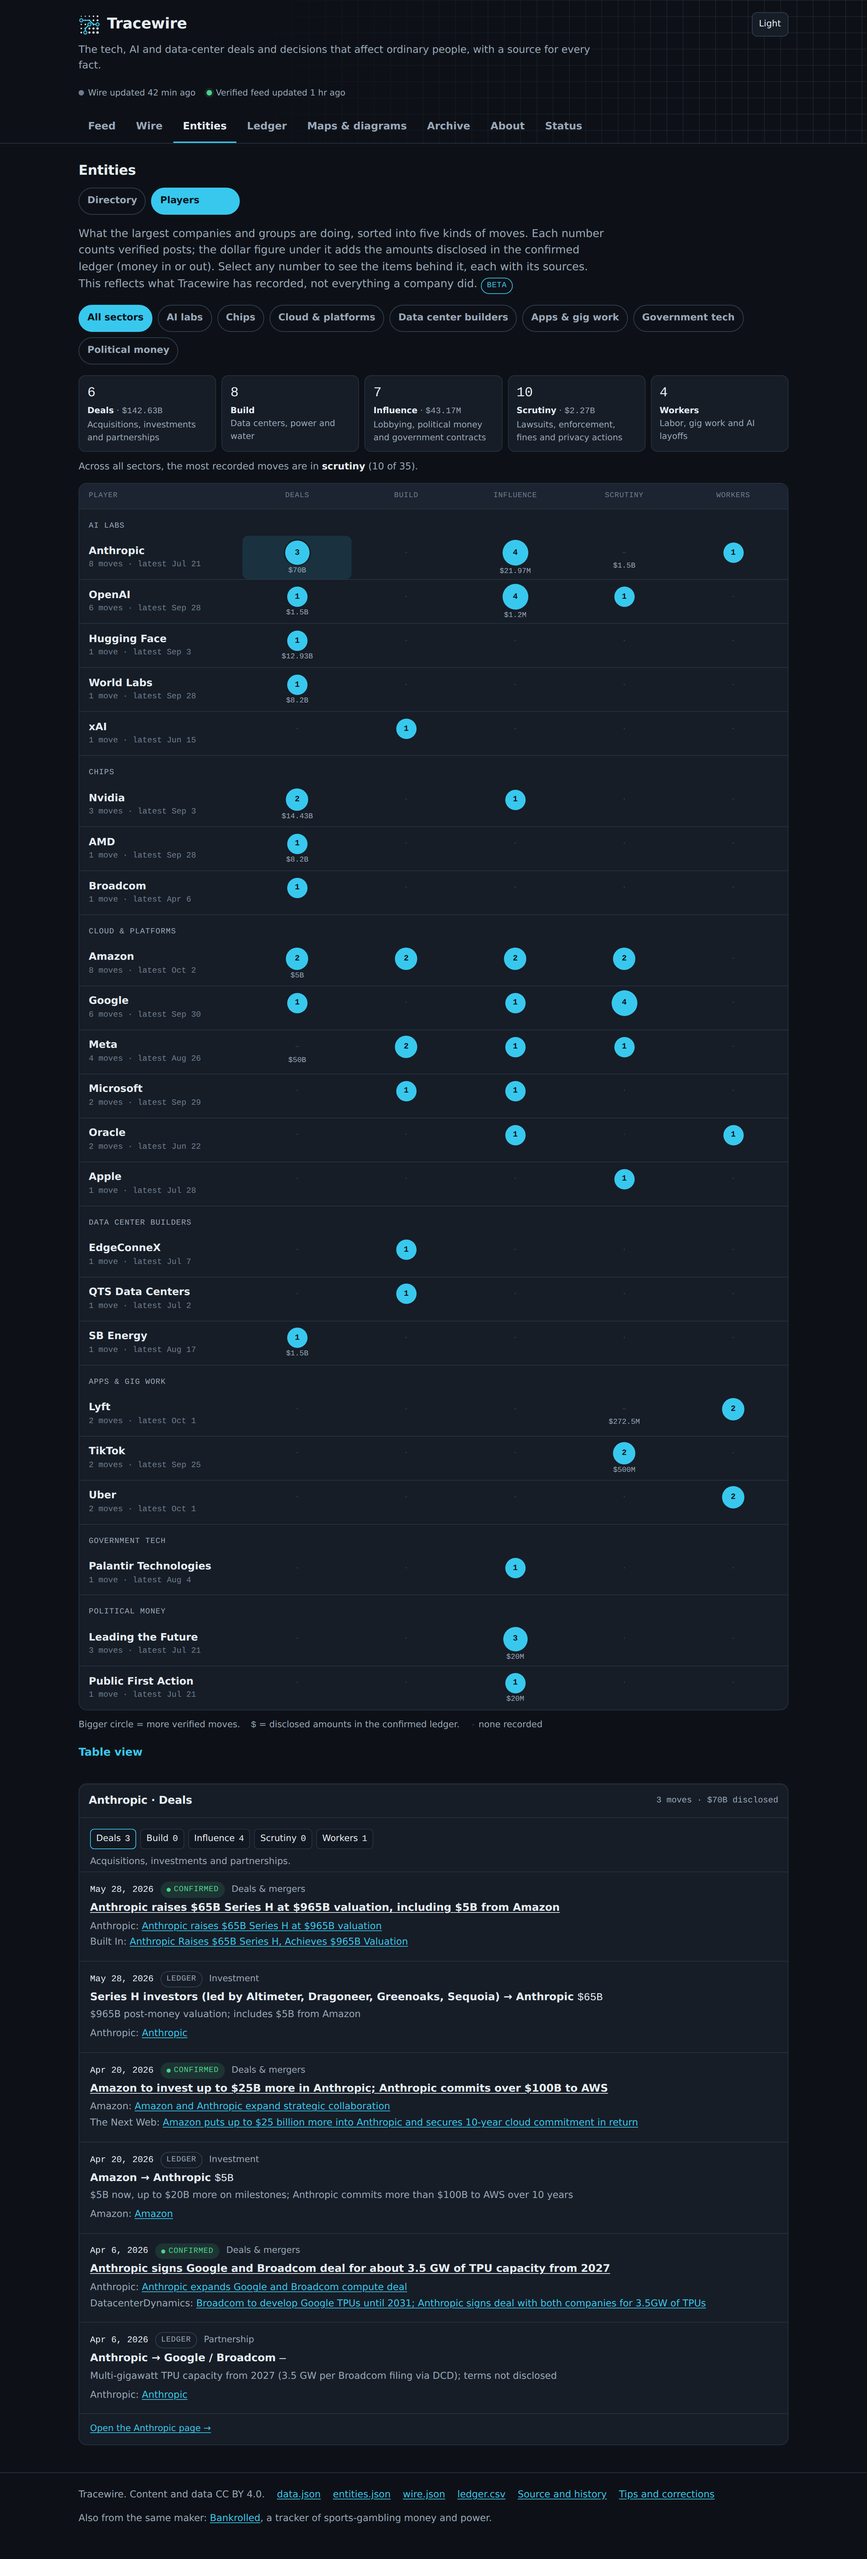
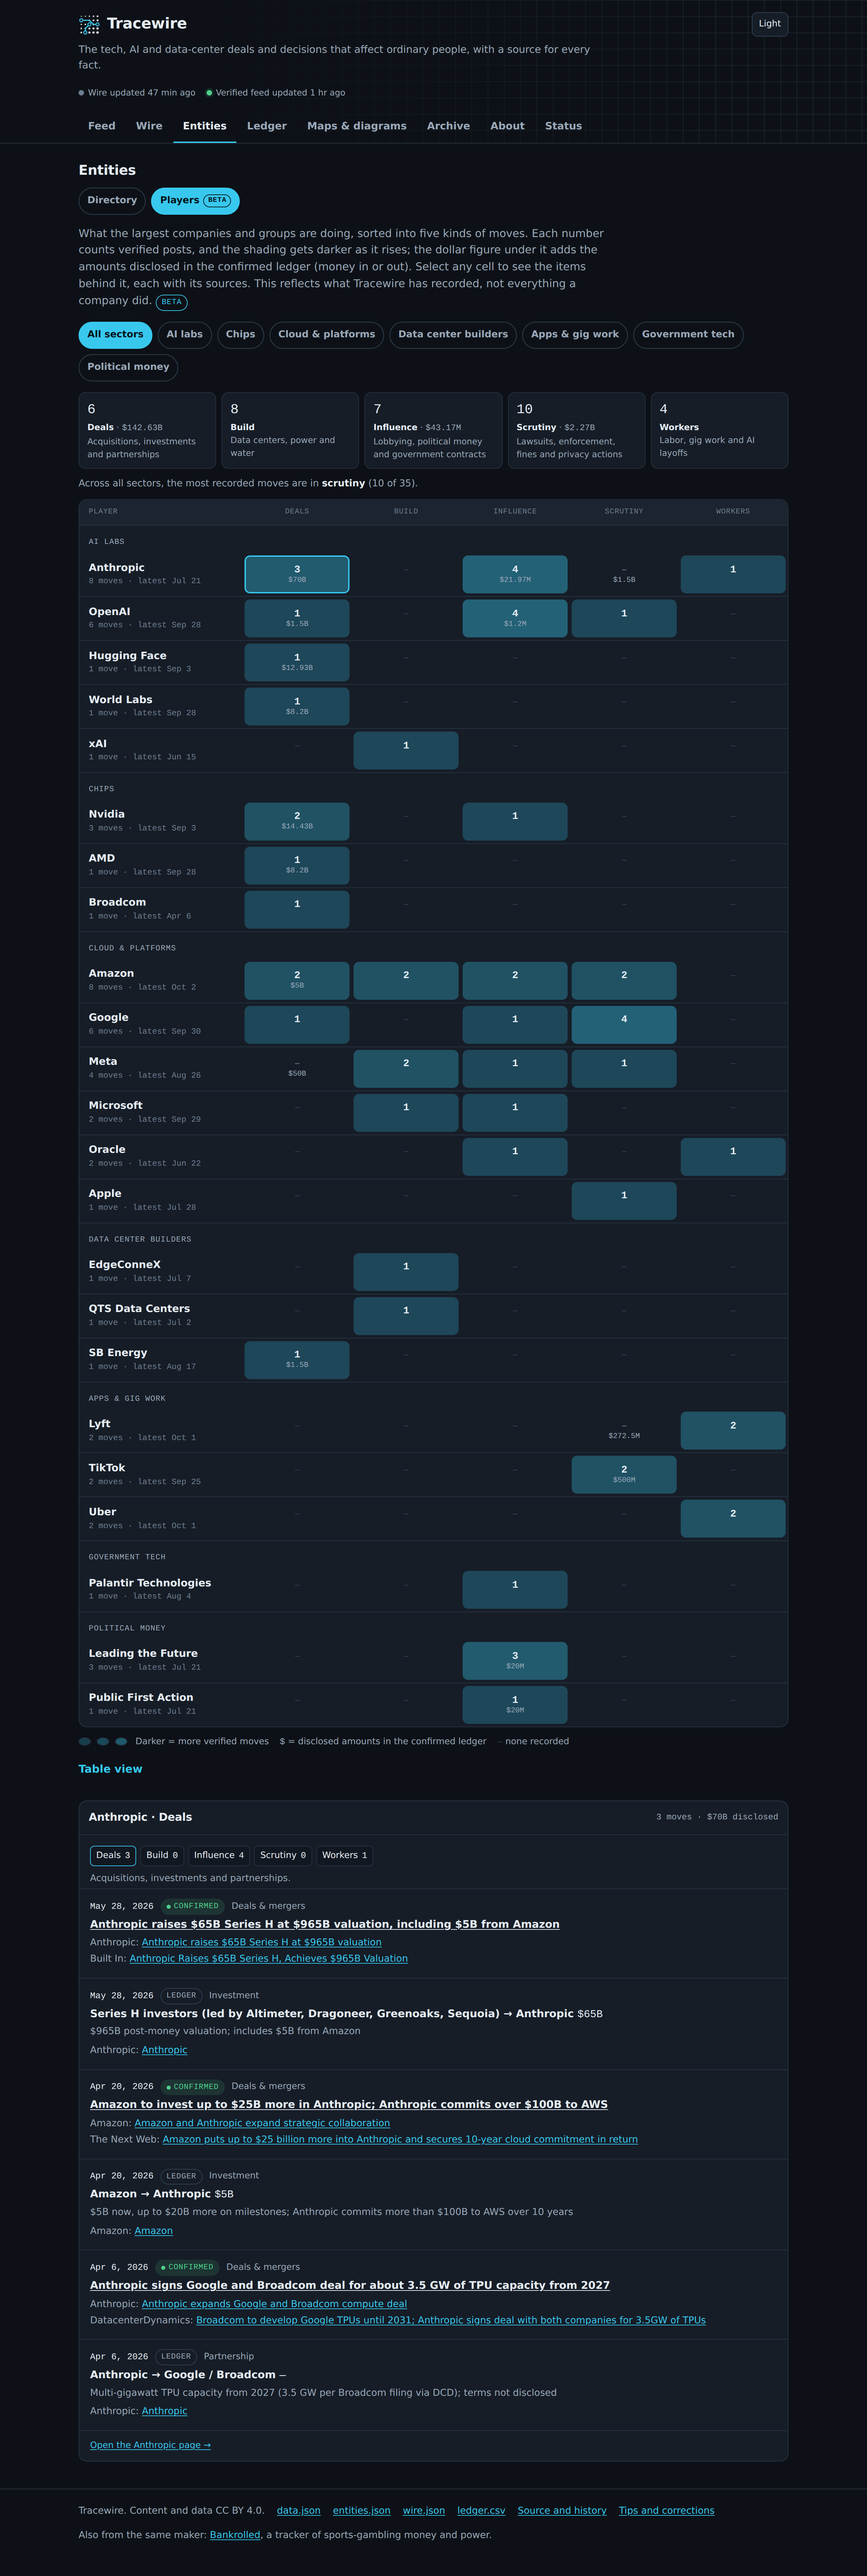
Players (beta): even tile grid; beta label visible on selected tab (#7)
Claude-Session: https://claude.ai/code/session_01Gvus3rGbYfJZZkf6H1iRhh

diff --git a/docs/index.html b/docs/index.html
@@ -165,6 +165,7 @@ figcaption{font-size:12.5px;color:var(--muted)}
 .sec{margin-top:32px}
 .sec>h2{font-size:17px;margin:0 0 12px}
 .chip.beta{color:var(--accent);border-color:var(--accent)}
+.subtabs a[aria-current="true"] .chip.beta{color:currentColor;border-color:currentColor}
 .pl-sum{display:grid;grid-template-columns:repeat(5,minmax(0,1fr));gap:8px;margin:0 0 16px}
 @media(max-width:700px){.pl-sum{grid-template-columns:repeat(2,minmax(0,1fr))}.pl-sum>.stat:last-child{grid-column:1/-1}}
 .pl-sum .k b{color:var(--text);font-weight:600}
@@ -178,13 +179,16 @@ figcaption{font-size:12.5px;color:var(--muted)}
 .pl-nm{padding:8px 14px;min-height:64px;display:flex;flex-direction:column;justify-content:center;gap:2px;min-width:0}
 .pl-nm a{color:var(--text);text-decoration:none;font-weight:600;font-size:15px;line-height:1.25}.pl-nm a:hover{color:var(--accent);text-decoration:underline}
 .pl-nm small{font-size:12px;color:var(--faint);font-family:"JetBrains Mono",monospace}
-.pl-c{appearance:none;border:0;background:none;min-height:64px;width:100%;display:flex;flex-direction:column;align-items:center;justify-content:center;gap:4px;cursor:pointer;border-radius:8px;padding:4px 0;color:inherit;font:inherit}
-.pl-c:hover,.pl-c[aria-pressed="true"]{background:var(--accent-soft)}
-.pl-c[disabled]{cursor:default;background:none}
-.pl-n{display:flex;align-items:center;justify-content:center;border-radius:50%;background:var(--accent);color:var(--accent-ink);font-family:"JetBrains Mono",monospace;font-size:12px;font-weight:600;box-shadow:0 0 0 2px var(--panel)}
-.pl-n.z{background:none;color:var(--line2);box-shadow:none;font-weight:400}
+.pl-c{appearance:none;border:1px solid transparent;margin:4px 3px;min-height:56px;display:flex;flex-direction:column;align-items:center;justify-content:center;gap:3px;cursor:pointer;border-radius:8px;padding:6px 2px;color:var(--text);font:inherit;background:color-mix(in srgb,var(--accent) var(--t,0%),transparent)}
+.pl-c:hover{border-color:var(--accent)}
+.pl-c[aria-pressed="true"]{border-color:var(--accent);box-shadow:0 0 0 1px var(--accent) inset}
+.pl-c[disabled]{cursor:default;background:none;border-color:transparent}
+.pl-n{font-family:"JetBrains Mono",monospace;font-size:15px;font-weight:600;line-height:1}
+.pl-c[disabled] .pl-n{color:var(--line2);font-weight:400}
 .pl-m{font-family:"JetBrains Mono",monospace;font-size:11px;color:var(--muted);line-height:1;min-height:11px}
-@media(max-width:700px){.pl-row{grid-template-columns:86px repeat(5,minmax(0,1fr))}.pl-hd{font-size:9.5px;letter-spacing:0}.pl-nm{padding:8px 8px 8px 10px}.pl-nm a{font-size:13px}.pl-nm small{display:none}.pl-m{font-size:10px}}
+.pl-scale{display:inline-flex;gap:3px;vertical-align:middle;margin-right:6px}
+.pl-scale i{display:inline-block;width:18px;height:12px;border-radius:3px;border:1px solid var(--line)}
+@media(max-width:700px){.pl-c{margin:3px 2px;min-height:50px}.pl-n{font-size:14px}.pl-row{grid-template-columns:86px repeat(5,minmax(0,1fr))}.pl-hd{font-size:9.5px;letter-spacing:0}.pl-nm{padding:8px 8px 8px 10px}.pl-nm a{font-size:13px}.pl-nm small{display:none}.pl-m{font-size:10px}}
 .pl-tip{position:absolute;pointer-events:none;background:var(--text);color:var(--bg);font-size:12.5px;line-height:1.35;padding:6px 9px;border-radius:6px;white-space:nowrap;z-index:5;transform:translate(-50%,calc(-100% - 6px))}
 .pl-key{display:flex;flex-wrap:wrap;align-items:center;gap:6px 16px;font-size:13px;color:var(--muted);margin:12px 0 0}
 .pl-key i{display:inline-block;border-radius:50%;background:var(--accent);vertical-align:middle;margin-right:6px}
@@ -543,22 +547,22 @@ async function vPlayers(r){
  const sum={};LANES.forEach(([k])=>{const ps=new Set(),ls=new Map();shown.forEach(x=>x.L[k].items.forEach(i=>i.kind==="post"?ps.add(i.p.id):ls.set(i.x.id,i.x)));sum[k]={n:ps.size,amt:[...ls.values()].filter(x=>x.amt!=null).reduce((a,x)=>a+ +x.amt,0)}});
  const top=LANES.slice().sort((a,b)=>sum[b[0]].n-sum[a[0]].n)[0];
  const max=Math.max(1,...shown.flatMap(x=>LANES.map(([k])=>x.L[k].n)));
- const size=n=>Math.round(22+16*Math.sqrt(n/max));
+ const tint=n=>n?Math.round(10+30*Math.sqrt(n/max)):0;
  const fmtLast=d=>d?`${MON[+d.slice(5,7)-1]} ${+d.slice(8,10)}`:"";
- const cell=(x,k,lab)=>{const L=x.L[k];if(!L.items.length)return`<button class="pl-c" type="button" disabled aria-label="${esc(x.e.n)}, ${lab}: none recorded"><span class="pl-n z" style="width:22px;height:22px">·</span><span class="pl-m"></span></button>`;
-  const z=size(L.n),tip=`${x.e.n} · ${lab}: ${L.n} move${L.n===1?"":"s"}${L.amt?`, ${money(L.amt)} disclosed`:""}`;
-  return`<button class="pl-c" type="button" data-pl="${esc(x.e.id)}" data-lane="${k}" aria-pressed="false" aria-label="${esc(tip)}. Show them." data-tip="${esc(tip)}"><span class="pl-n${L.n?"":" z"}" style="width:${L.n?z:22}px;height:${L.n?z:22}px">${L.n||"–"}</span><span class="pl-m">${L.amt?money(L.amt):""}</span></button>`};
+ const cell=(x,k,lab)=>{const L=x.L[k];if(!L.items.length)return`<button class="pl-c" type="button" disabled aria-label="${esc(x.e.n)}, ${lab}: none recorded"><span class="pl-n">–</span><span class="pl-m"></span></button>`;
+  const tip=`${x.e.n} · ${lab}: ${L.n} move${L.n===1?"":"s"}${L.amt?`, ${money(L.amt)} disclosed`:""}`;
+  return`<button class="pl-c" type="button" data-pl="${esc(x.e.id)}" data-lane="${k}" aria-pressed="false" aria-label="${esc(tip)}. Show them." data-tip="${esc(tip)}" style="--t:${tint(L.n)}%"><span class="pl-n"${L.n?"":' style="color:var(--faint);font-weight:400"'}>${L.n||"–"}</span><span class="pl-m">${L.amt?money(L.amt):""}</span></button>`};
  const row=x=>`<div class="pl-row"><div class="pl-nm"><a href="#/entity/${encodeURIComponent(x.e.id)}">${esc(x.e.n)}</a><small>${x.moves} move${x.moves===1?"":"s"} · latest ${esc(fmtLast(x.last))}</small></div>${LANES.map(([k,lab])=>cell(x,k,lab)).join("")}</div>`;
  const groups=(sec?[sec]:secs).map(g=>`<div class="pl-sec">${esc(g)}</div>`+shown.filter(x=>x.e.sec===g).sort((a,b)=>b.moves-a.moves||a.e.n.localeCompare(b.e.n)).map(row).join("")).join("");
  $("#main").innerHTML=`<h2>Entities</h2>${entTabs("pl")}
- <p class="muted" style="max-width:780px">What the largest companies and groups are doing, sorted into five kinds of moves. Each number counts verified posts; the dollar figure under it adds the amounts disclosed in the confirmed ledger (money in or out). Select any number to see the items behind it, each with its sources. This reflects what Tracewire has recorded, not everything a company did. <span class="chip beta plain">Beta</span></p>
+ <p class="muted" style="max-width:780px">What the largest companies and groups are doing, sorted into five kinds of moves. Each number counts verified posts, and the shading gets darker as it rises; the dollar figure under it adds the amounts disclosed in the confirmed ledger (money in or out). Select any cell to see the items behind it, each with its sources. This reflects what Tracewire has recorded, not everything a company did. <span class="chip beta plain">Beta</span></p>
  <div class="subtabs" style="margin-top:16px"><a href="#/entities/players" aria-current="${!sec}">All sectors</a>${secs.map(g=>`<a href="#/entities/players?s=${encodeURIComponent(g)}" aria-current="${sec===g}">${esc(g)}</a>`).join("")}</div>
  <div class="pl-sum">${LANES.map(([k,lab,desc])=>`<div class="stat" title="${esc(desc)}"><div class="v">${sum[k].n}</div><div class="k"><b>${lab}</b>${sum[k].amt?` · <span class="mono">${money(sum[k].amt)}</span>`:""}<br>${esc(desc)}</div></div>`).join("")}</div>
  <p class="muted" style="font-size:14px;margin:-4px 0 12px">${sec?esc(sec):"Across all sectors"}, the most recorded moves are in <b style="color:var(--text)">${top[1].toLowerCase()}</b> (${sum[top[0]].n} of ${LANES.reduce((a,[k])=>a+sum[k].n,0)}).</p>
  <div class="pl-wrap" id="pl-wrap"><div class="pl-row pl-hd"><span>Player</span>${LANES.map(([k,lab,desc])=>`<span title="${esc(desc)}">${lab}</span>`).join("")}</div>${groups}<div class="pl-tip" id="pl-tip" hidden></div></div>
- <div class="pl-key"><span>Bigger circle = more verified moves.</span><span><span class="mono">$</span> = disclosed amounts in the confirmed ledger.</span><span><span class="mono" style="color:var(--line2)">·</span> none recorded</span></div>
+ <div class="pl-key"><span><span class="pl-scale" aria-hidden="true">${[1,Math.ceil(max/2),max].filter((v,i,a)=>a.indexOf(v)===i).map(n=>`<i style="background:color-mix(in srgb,var(--accent) ${tint(n)}%,transparent)"></i>`).join("")}</span>Darker = more verified moves</span><span><span class="mono">$</span> = disclosed amounts in the confirmed ledger</span><span><span class="mono" style="color:var(--line2)">–</span> none recorded</span></div>
  <details style="margin-top:8px"><summary style="cursor:pointer;min-height:44px;display:flex;align-items:center;color:var(--accent);font-weight:600">Table view</summary><div class="tbl-wrap"><table><thead><tr><th>Player</th><th>Sector</th>${LANES.map(([,lab])=>`<th class="num">${lab}</th>`).join("")}<th>Latest</th></tr></thead><tbody>${shown.map(x=>`<tr><td>${esc(x.e.n)}</td><td>${esc(x.e.sec)}</td>${LANES.map(([k])=>`<td class="num mono">${x.L[k].n||""}${x.L[k].amt?` (${money(x.L[k].amt)})`:""}</td>`).join("")}<td><time datetime="${esc(x.last)}">${esc(x.last)}</time></td></tr>`).join("")}</tbody></table></div></details>
- <section class="pl-detail" id="pl-detail" aria-live="polite"><div class="panel"><p class="empty">Select a number to see the posts and ledger rows behind it, with their sources.</p></div></section>`;
+ <section class="pl-detail" id="pl-detail" aria-live="polite"><div class="panel"><p class="empty">Select a cell to see the posts and ledger rows behind it, with their sources.</p></div></section>`;
  const wrap=$("#pl-wrap"),tip=$("#pl-tip");
  const showTip=b=>{if(!b||!b.dataset.tip){tip.hidden=true;return}const wr=wrap.getBoundingClientRect(),br=b.getBoundingClientRect();tip.textContent=b.dataset.tip;tip.hidden=false;
   let x=br.left-wr.left+br.width/2;const half=tip.offsetWidth/2;x=Math.min(Math.max(x,half+4),wr.width-half-4);tip.style.left=x+"px";tip.style.top=(br.top-wr.top+4)+"px"};

diff --git a/CHANGELOG.md b/CHANGELOG.md
@@ -2,6 +2,10 @@
 
 Content updates are committed as "Update YYYY-MM-DD HH:MM" and summarized in `reports/`. Wire commits are "Wire <time>". Design and feature changes are listed here, newest first.
 
+## 2026-10-05 (players: even grid)
+- Players (beta): circles replaced with same-size tiles. Each tile shows the number of verified moves, with shading that darkens as the number rises, and the disclosed amount below; rows and columns now line up evenly. Legend shows the shading scale.
+- The "beta" label stays visible on the selected Players tab (it takes the tab's text color).
+
 ## 2026-10-05 (players: moves view)
 - Players (beta) now sorts each company's verified record into five kinds of moves (Deals, Build, Influence, Scrutiny, Workers) instead of a month-by-month count of mentions. Each cell shows the number of verified posts and the dollar amount disclosed in the confirmed ledger; a summary row shows the totals for the selected sector and where most moves fall. The chart fits the screen at every width (no sideways scrolling). Every number still opens the items behind it with their sources.
 - Fixed the money format: whole amounts lost a zero ($70B showed as $7B, $50B as $5B) on the Ledger, entity pages and diagrams.
